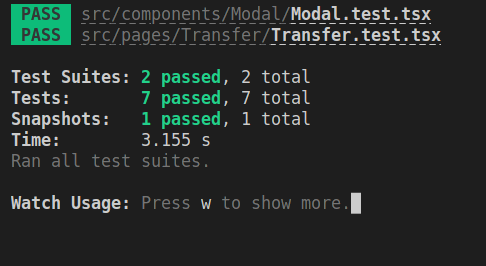
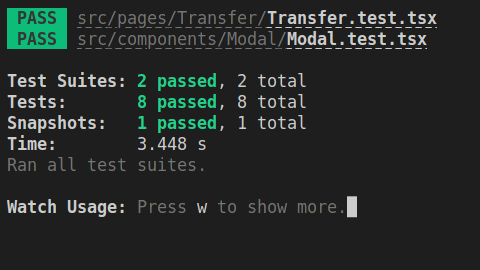
test: added test case to check if source wallet form input is disabled

diff --git a/src/pages/Transfer/Transfer.test.tsx b/src/pages/Transfer/Transfer.test.tsx
@@ -35,6 +35,21 @@ test("Should match snapshot", () => {
   expect(screen).toMatchSnapshot();
 });
 
+test("Source Wallet Input form should have disabled class", () => {
+  render(
+    <Provider store={store}>
+      <BrowserRouter>
+        <Routes>
+          <Route index element={<Transfer />}></Route>
+        </Routes>
+      </BrowserRouter>
+    </Provider>
+  );
+
+  const fromInput = screen.getByTestId("from-input");
+  expect(fromInput.classList.contains("disabled")).toBe(true);
+});
+
 test("Should display amount empty warning on first time page loads", () => {
   render(
     <Provider store={store}>

diff --git a/src/components/TransferForm/TransferForm.tsx b/src/components/TransferForm/TransferForm.tsx
@@ -91,6 +91,7 @@ export default function TransferForm() {
           type="tel"
           required
           value={walletId}
+          data-testid="from-input"
           disabled={true}
           className="disabled"
         />

diff --git a/README.md b/README.md
@@ -64,6 +64,8 @@ Here are a few screenshot the app screens.
 
 ## Test
 
+![test](./test.png)
+
 This project also includes unit test for transfer page by:
 
 - Testing modal as part of transfer page to see if it is rendered
@@ -71,6 +73,8 @@ This project also includes unit test for transfer page by:
 - Testing modal print by mocking window print
 
 - Testing the snapshot of transfer page
+
+- Testing disabled source wallet form input
 
 - Testing the header displayed of transfer page
 
